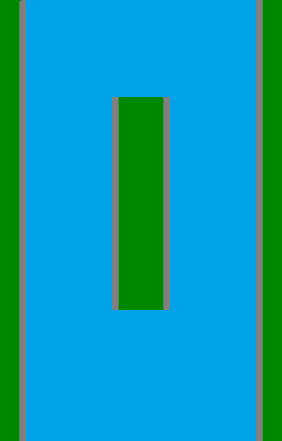
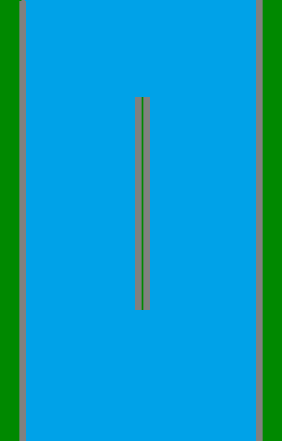
parcial 20/08

Changed region(s): [[0.3972, 0.2063, 0.6241, 0.7075]]

diff --git a/js/index.js b/js/index.js
@@ -388,11 +388,17 @@ function updateCrush(){
 function updateFire(){
 
     let crushObj = false;
+
     for (i = 0; i < myFires.length; i++) {
         //Varre os obstaculos para saber se estão na mesma posição x e y do fire
         for (j = 0; j < myObstacles.length; j++) {
           //se o y estiver na mesma coordenada verifica a posição x se está dentro do objeto
           crushObj = false;
+
+          // if (myFires[i].y === undefined ){
+          //   console.log('myfires' + myFires[i]);
+          // }
+
           if (myObstacles[j].y >= (myFires[i].y-myFires[i].height+50)){
             if ((myFires[i].x+20)  >= myObstacles[j].x  && myFires[i].x+30  <= (myObstacles[j].x + myObstacles[j].width)){
               crushObj = true; 
@@ -430,10 +436,17 @@ function updateObstacles() {
   //console.log(myGameArea.frames);
   if (myGameArea.frames % 240 === 0) {
     let y = 0;
-    let minWidth = 50;
-    let maxWidth = 380;
+
+    //let minWidth = 50 ;
+    let minWidth = myGameArea.limL;
+    //let maxWidth = 380 (500 - 75- 50);
+    let maxWidth = (myGameArea.width - 75 - myGameArea.limR);
     //let width = Math.floor(Math.random() * (maxWidth - minWidth + 1) + minWidth);
+    console.log('limite:' + myGameArea.limR);
+
     let posX = Math.floor(Math.random() * (maxWidth - minWidth + 1) + minWidth);
+
+    console.log(posX);
     //let minGap = 70;
     //let maxGap = 150;
     //let gap = Math.floor(Math.random() * (maxGap - minGap + 1) + minGap);
